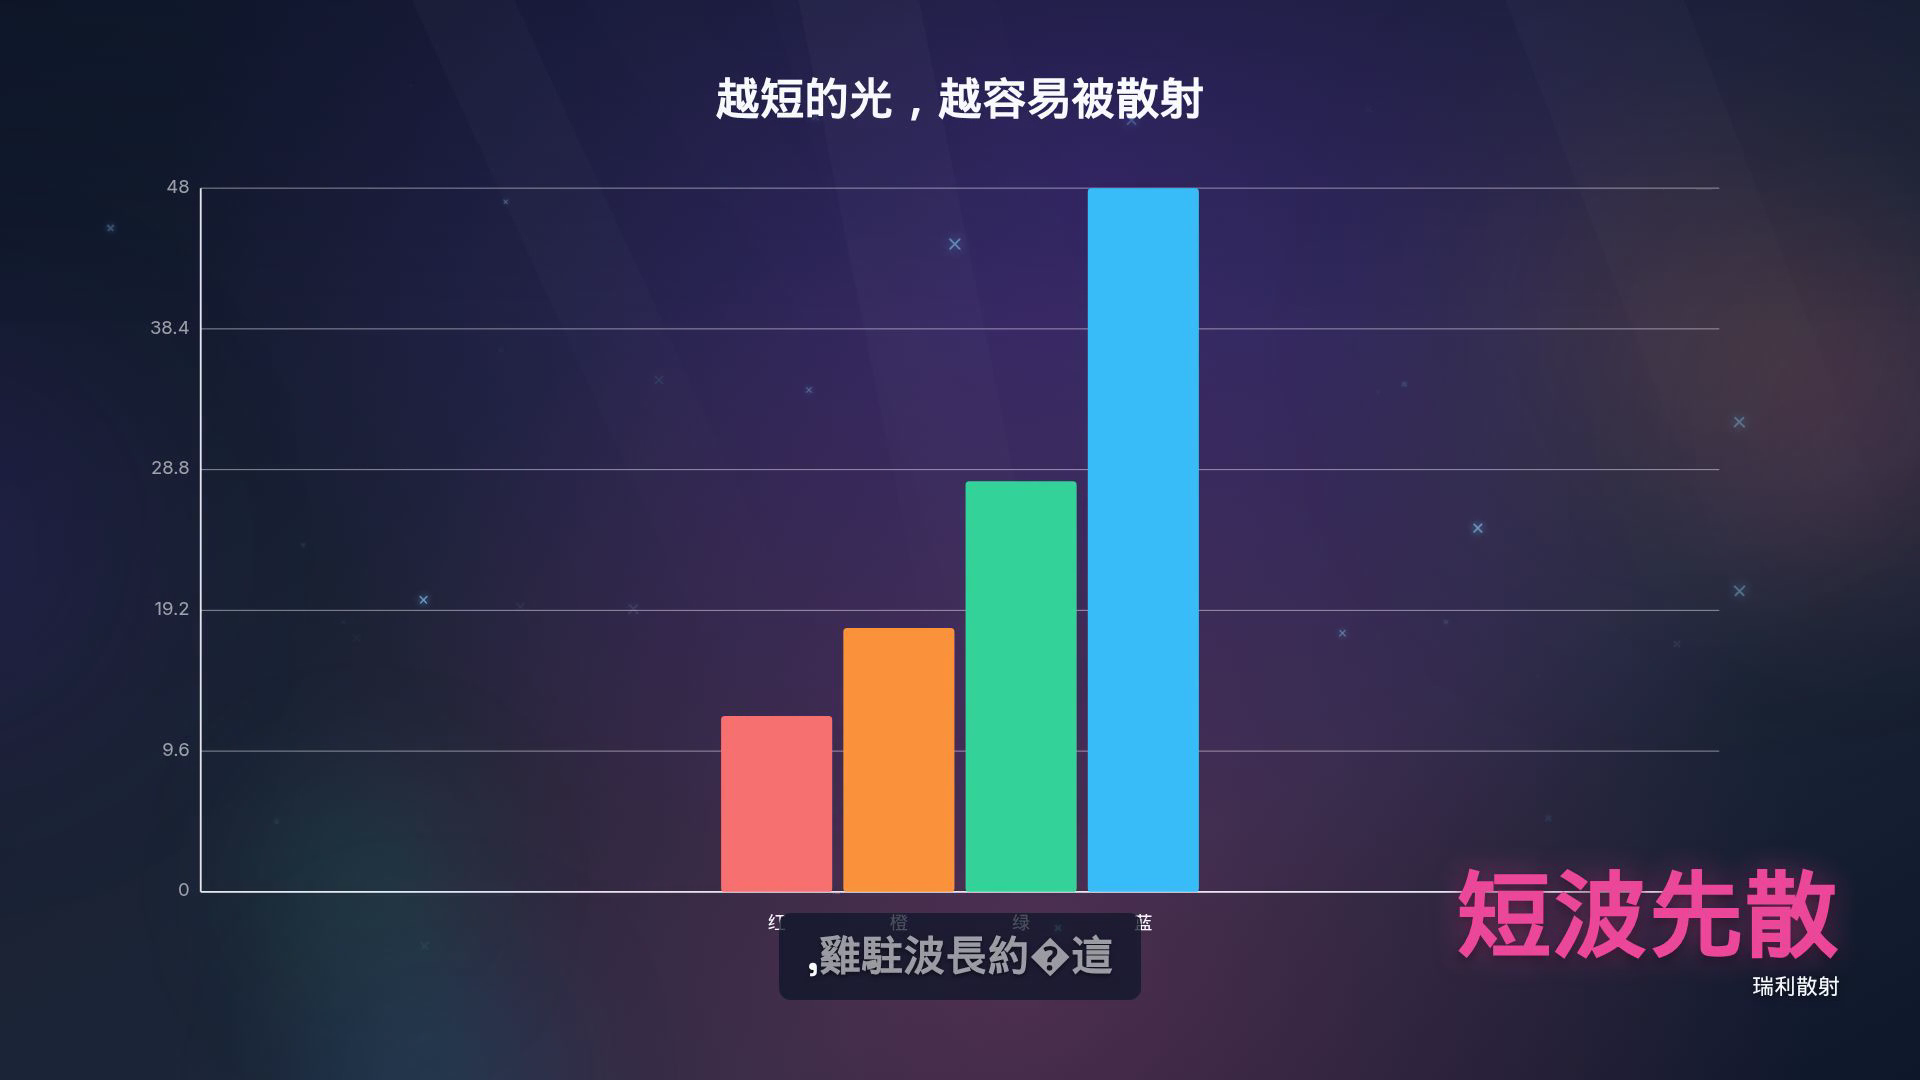
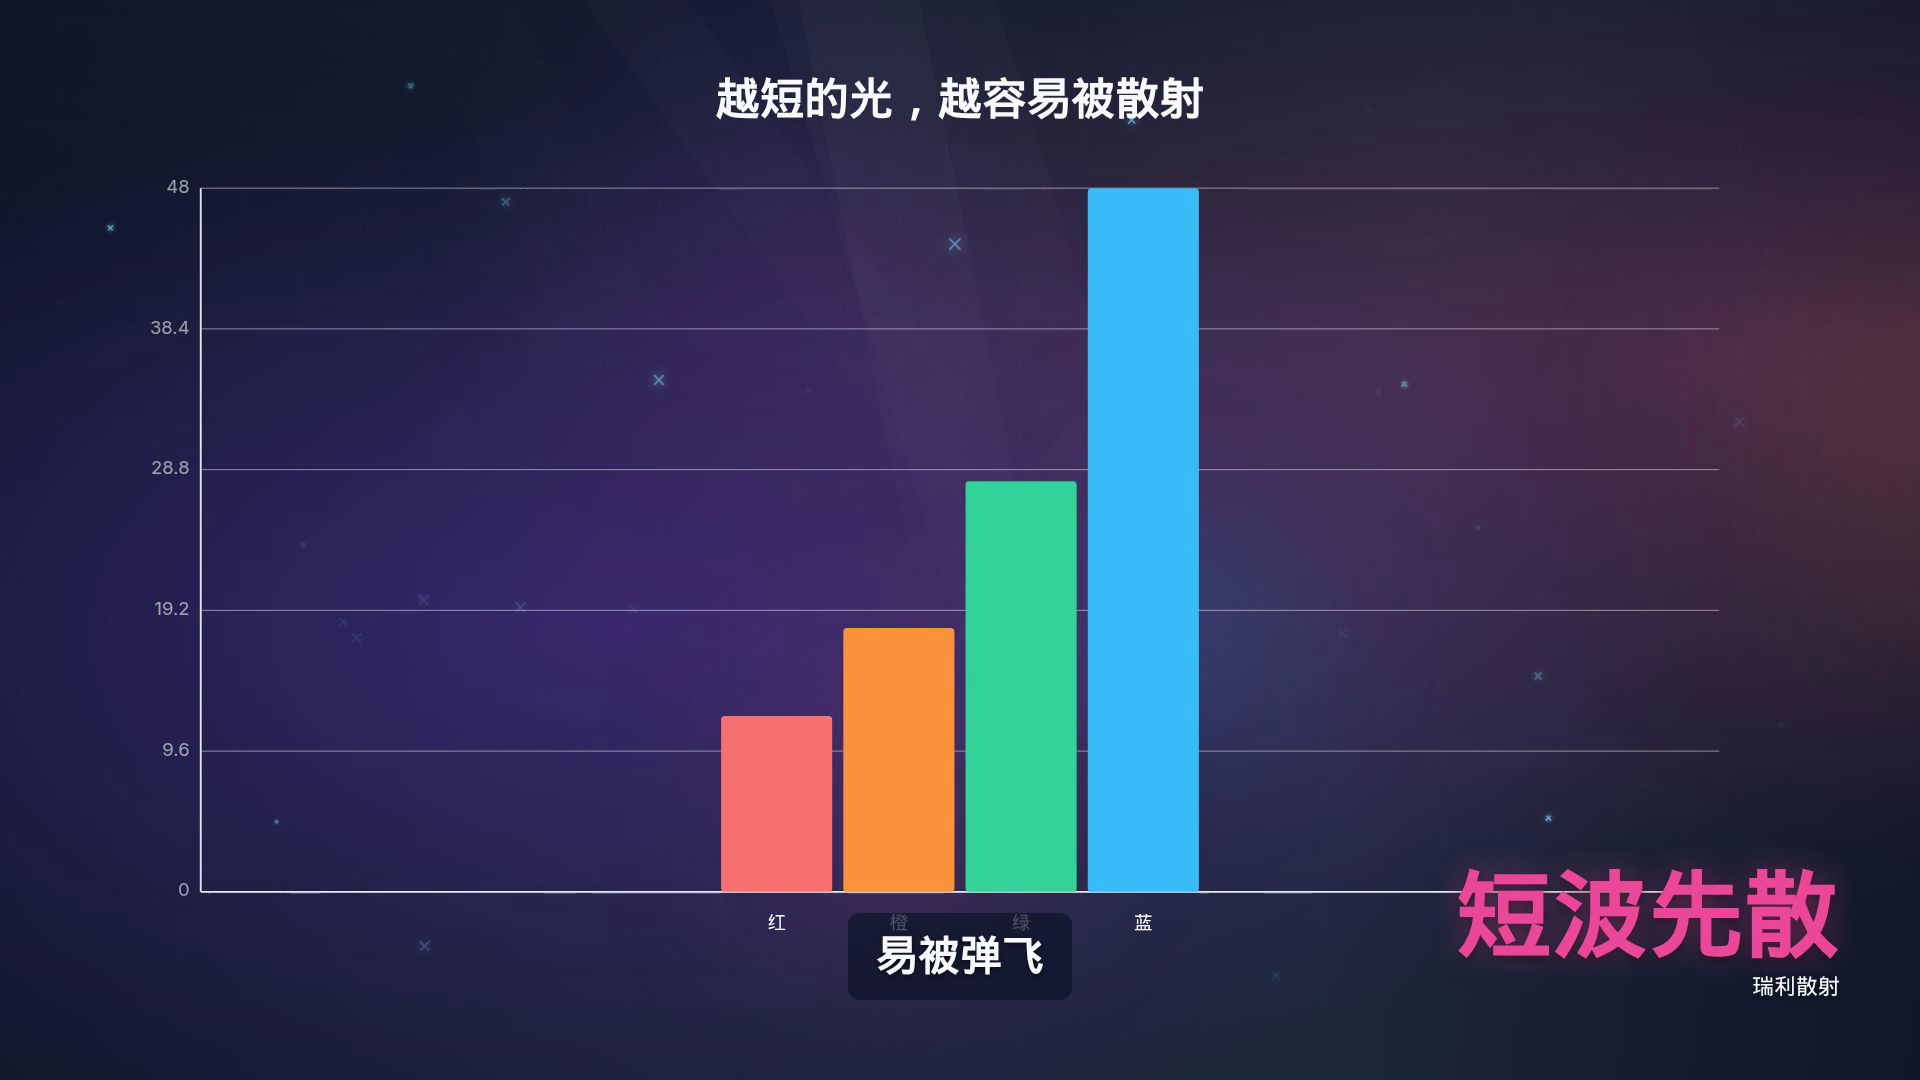
Record YunxiNeural explainer proof
Re-render is 97s with free Edge TTS zh-CN-YunxiNeural, WordBoundary
captions, and audible loudnorm. Docs list Edge as the default voice.

Changed region(s): [[0.0625, 0.3667, 0.4375, 0.7944], [0.3438, 0.7639, 0.7188, 1.0], [0.5, 0.0, 0.6875, 0.2444]]

diff --git a/docs/edu-proof.md b/docs/edu-proof.md
@@ -6,29 +6,27 @@
 python scripts/zero_cost_explainer.py fixtures/zero-cost/why-sky-is-blue.json
 ```
 
-成片在 `projects/why-sky-is-blue/renders/final.mp4`（gitignore）。Pixabay BGM 本机返回 403/空结果，因此只有 Piper 中文旁白 + 字幕，没有背景音乐。
+成片在 `projects/why-sky-is-blue/renders/final.mp4`（gitignore）。Pixabay BGM 本机返回 403/空结果，因此只有旁白 + 字幕，没有背景音乐。
 
-口播对照 [ai_video01](https://github.com/Tomhao10225101490/ai_video01) **只学节奏、不换 Edge 音色**：按 `。！？` 一句一合成、句间气口、钩子略快；concat 后走 `voice_clarity`（高通 + 存在感 EQ + loudnorm）；字幕用 faster-whisper 字级时间轴（没有 whisper 则回退按时长均分汉字）。Piper 仍是 `zh_CN-huayan-medium`。画面 `motion_energy: high`。
+口播默认免费 **Edge TTS `zh-CN-YunxiNeural`**（与 [ai_video01](https://github.com/Tomhao10225101490/ai_video01) 同款，无 Key）：按句合成、钩子 `+18%` / 说明 `+10%`、WordBoundary 字幕、`voice_clarity` 后期。断网回退 Piper。画面 `motion_energy: high`。
 
 ## 探测结果
 
 | 项 | 值 |
 |----|----|
-| 时长 | 78.19s |
+| 时长 | 96.58s |
 | 分辨率 | 1920×1080 30fps |
 | 视频 | h264 |
 | 音频 | aac stereo 48kHz |
-| 音量 | 成片 mean **-19.3 dB**；增强后旁白 **-16.2 dB**（loudnorm 目标约 -16） |
-| 体积 | 31.3 MB |
-| 旁白 | Piper 按句合成 + `voice_clarity` |
-| 字幕 | whisper 200 words / 244 cues |
+| 音量 | 成片 mean **-21.6 dB**；增强旁白 **-18.6 dB** |
+| 体积 | 38.6 MB |
+| 旁白 | Edge TTS YunxiNeural，engine=edge |
+| 字幕 | WordBoundary **313** cues |
 
 钩子帧（「先别划走」+ 光束/闪点）：
 
 ![why-sky-is-blue hook](demo-frames/why-sky-is-blue-hook.png)
 
-中间帧（瑞利散射柱状图 + 「短波先散」）：
+中间帧（瑞利散射柱状图）：
 
 ![why-sky-is-blue mid frame](demo-frames/why-sky-is-blue-mid.png)
-
-`zero_cost_preflight.py` 中文试合成 `天空是蓝色的。` mean_volume **-13.5 dB**。
